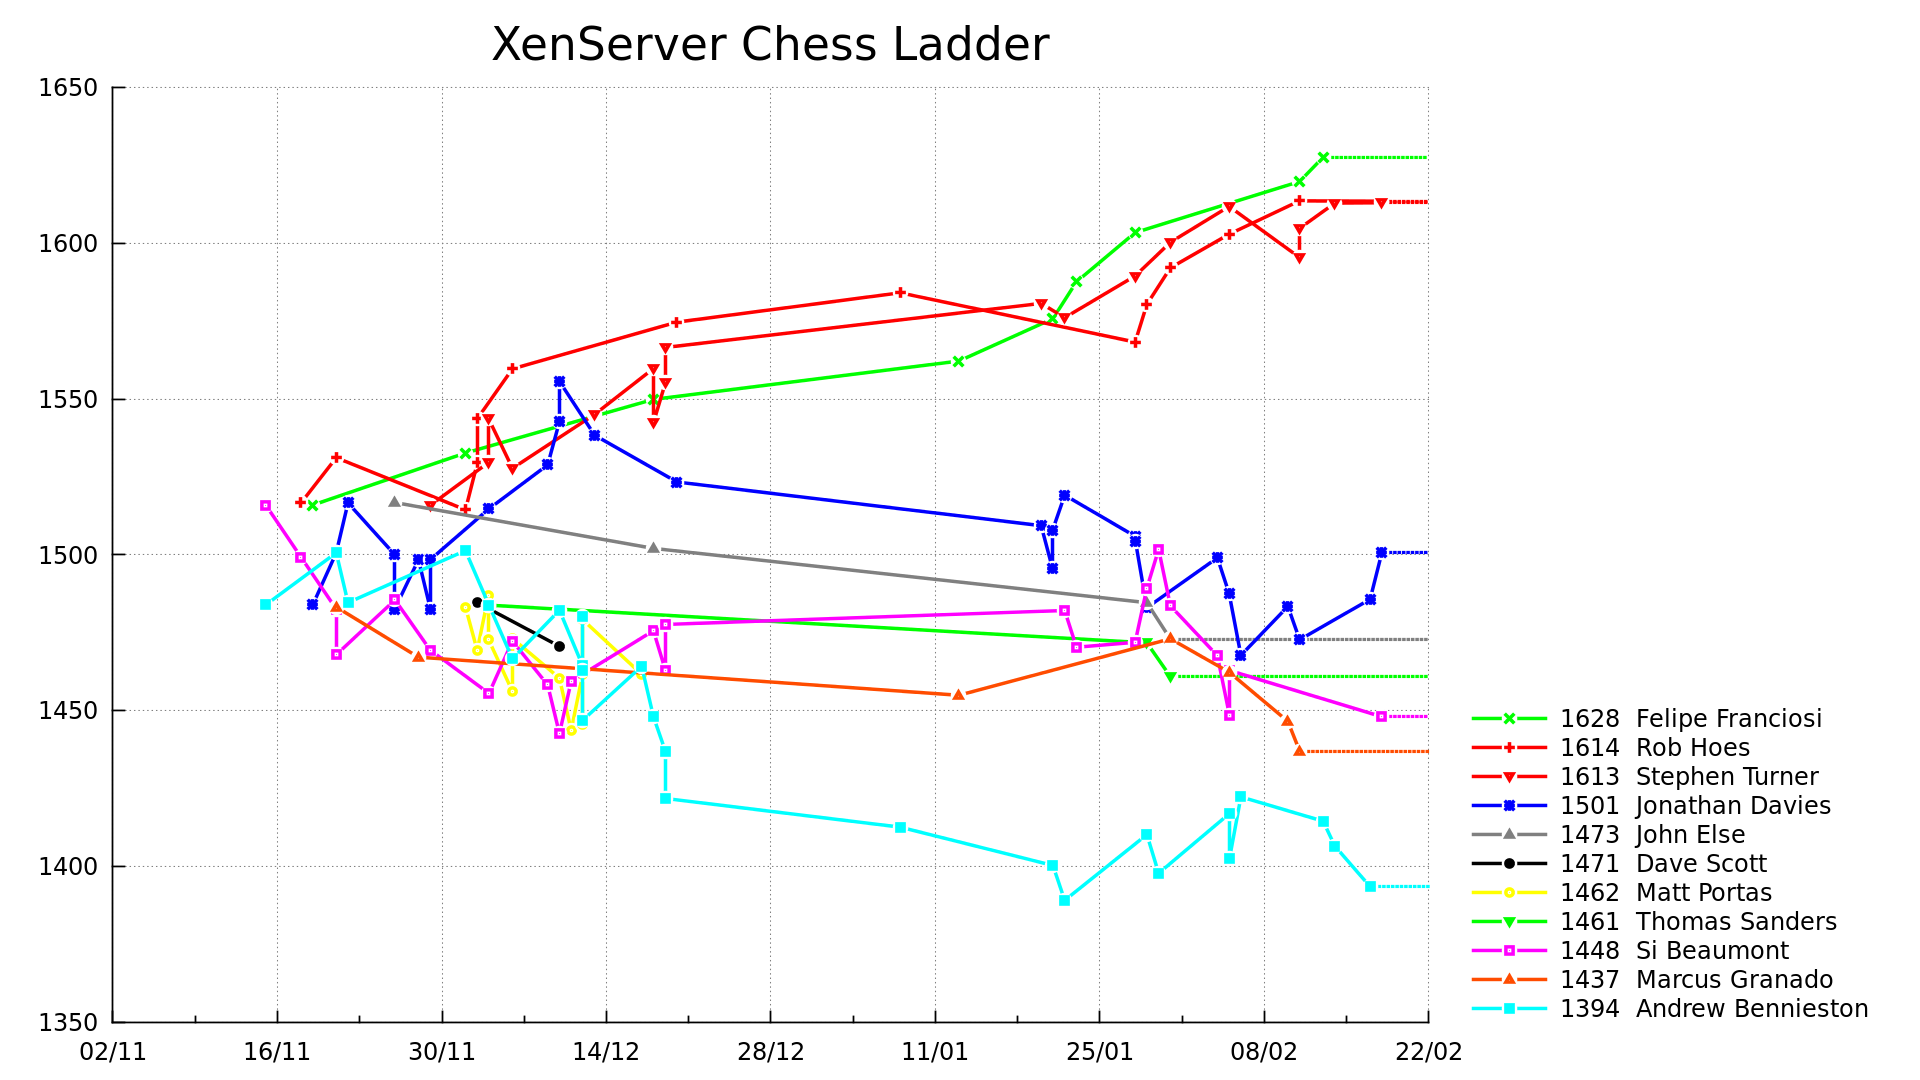
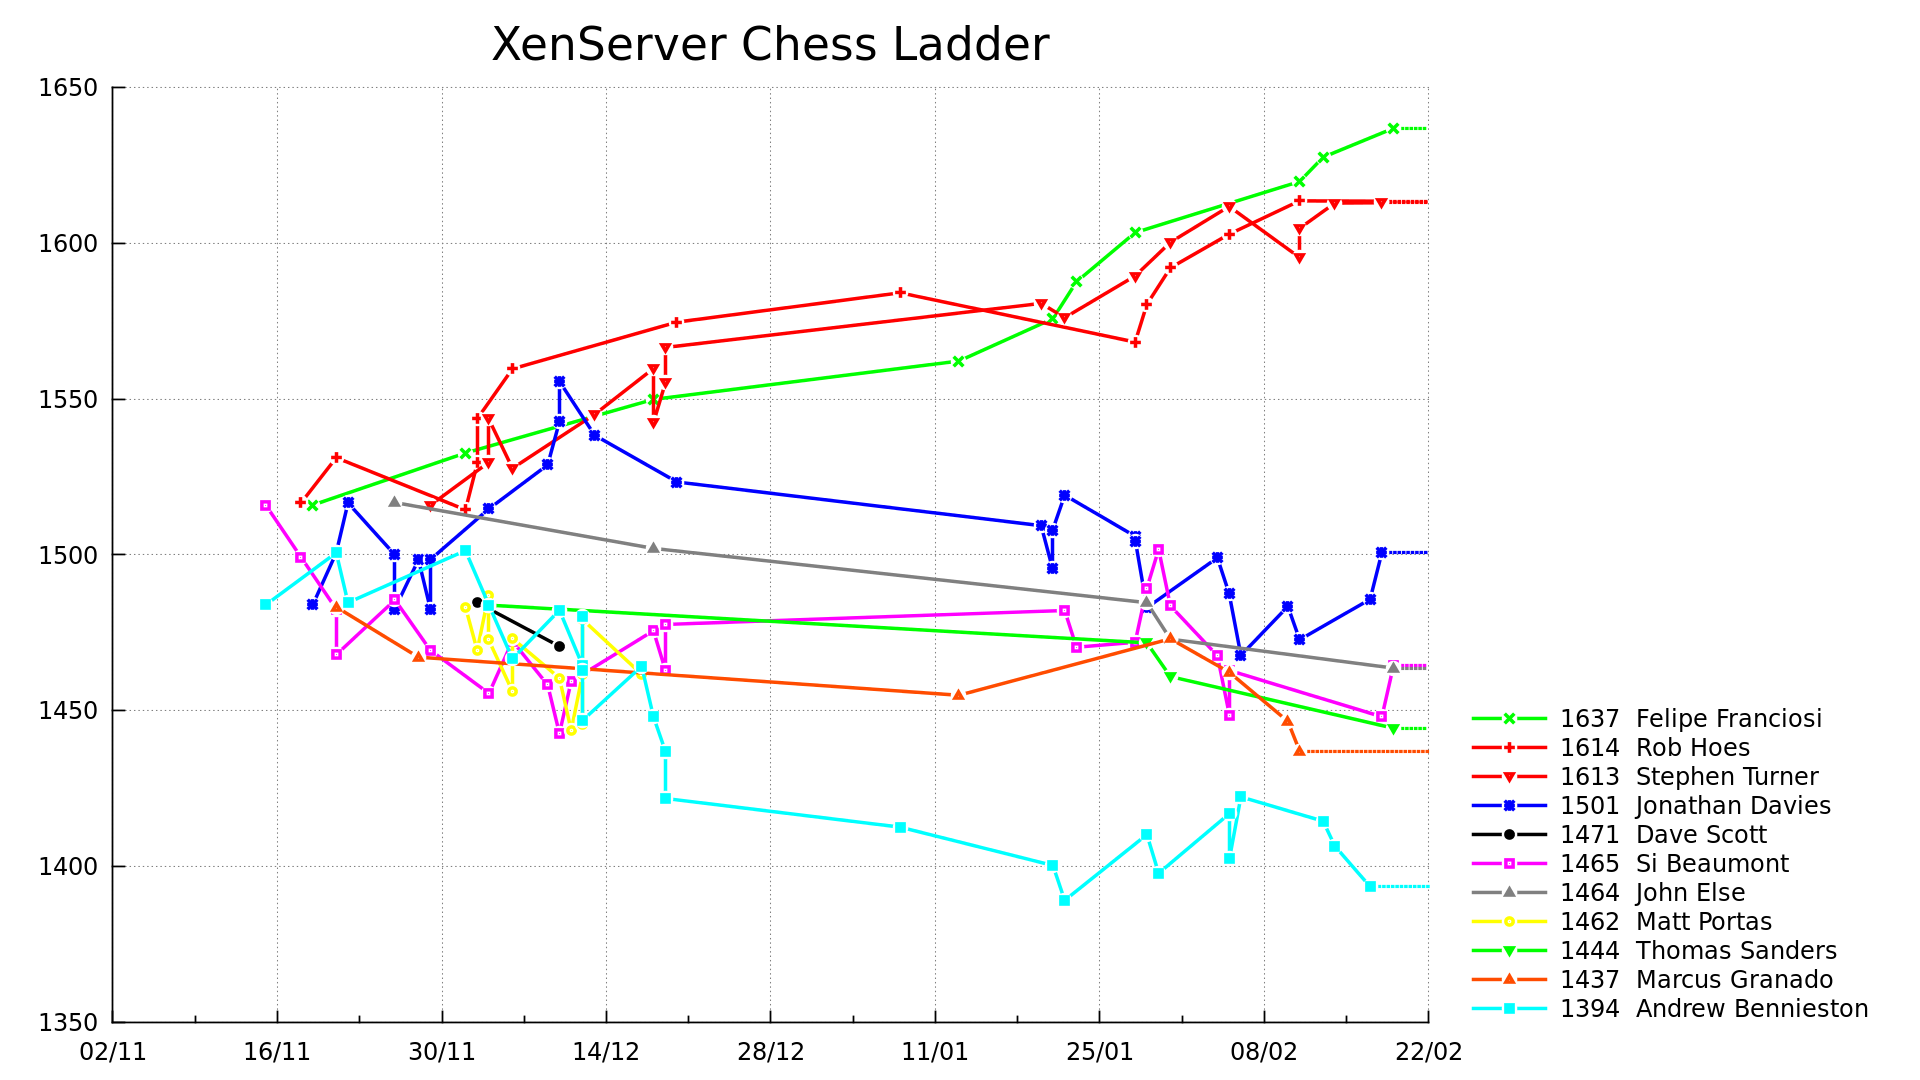
Travis build 139 pushed to gh-pages

diff --git a/index.md b/index.md
@@ -3,22 +3,24 @@ layout: default
 ---
 # XenServer Chess Ladder
 ### Ladder
-     1.  Felipe Franciosi                   1628  (9 / 9)
+     1.  Felipe Franciosi                   1637  (10 / 10)
      2.  Rob Hoes                           1614  (11.5 / 14)
      3.  Stephen Turner                     1613  (14 / 18)
      4.  Jonathan Davies                    1501  (14.5 / 28)
-     5.  John Else                          1473  (1 / 4)
-     6.  Dave Scott                      ☠  1471  (0 / 2)
-     7.  Matt Portas                     ☠  1462  (5 / 13)
-     8.  Thomas Sanders                     1461  (0 / 3)
-     9.  Si Beaumont                        1448  (10 / 24)
+     5.  Dave Scott                      ☠  1471  (0 / 2)
+     6.  Si Beaumont                        1465  (11 / 25)
+     7.  John Else                          1464  (1 / 5)
+     8.  Matt Portas                     ☠  1462  (5 / 13)
+     9.  Thomas Sanders                     1444  (0 / 4)
     10.  Marcus Granado                     1437  (1 / 7)
     11.  Andrew Bennieston                  1394  (8 / 26)
 ### Suggested games (least played)
-          Thomas Sanders - Si Beaumont
-          Marcus Granado - John Else
-        Felipe Franciosi - Andrew Bennieston
+          Thomas Sanders - Marcus Granado
+               John Else - Andrew Bennieston
+        Felipe Franciosi - Si Beaumont
 ### Games
+    2014-02-19:            John Else - Felipe Franciosi          0 - 1
+    2014-02-19:       Thomas Sanders - Si Beaumont               0 - 1
     2014-02-18:          Si Beaumont - Jonathan Davies           0 - 1
     2014-02-18:             Rob Hoes - Stephen Turner          0.5 - 0.5
     2014-02-17:      Jonathan Davies - Andrew Bennieston         1 - 0
